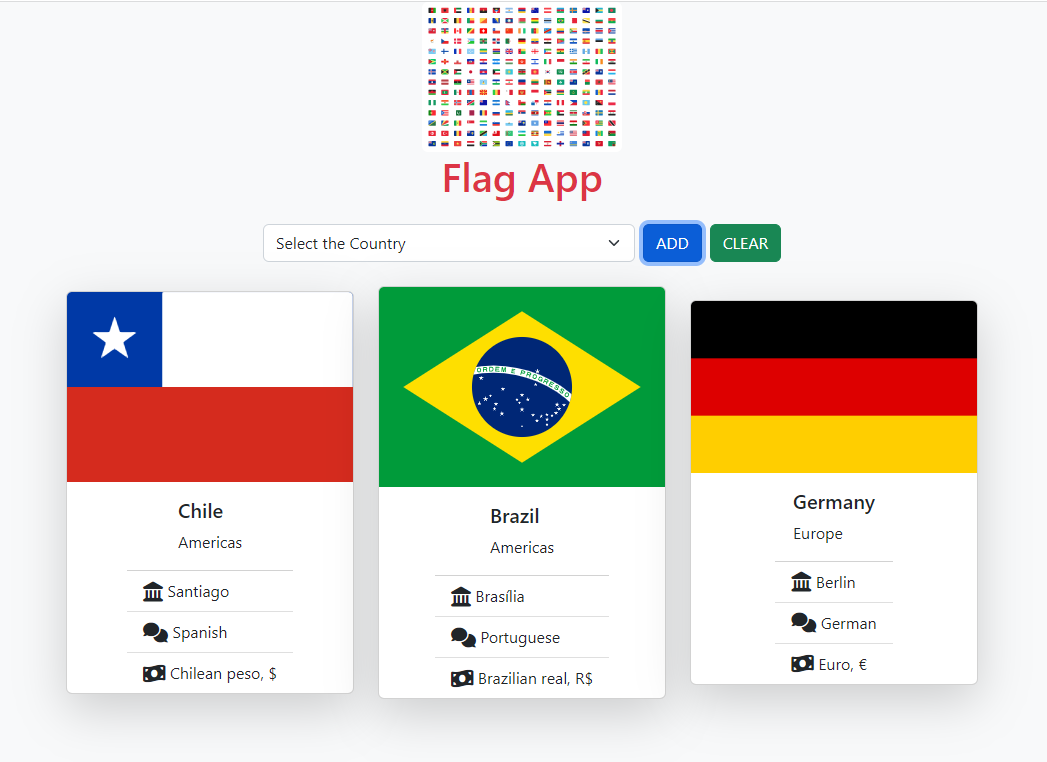
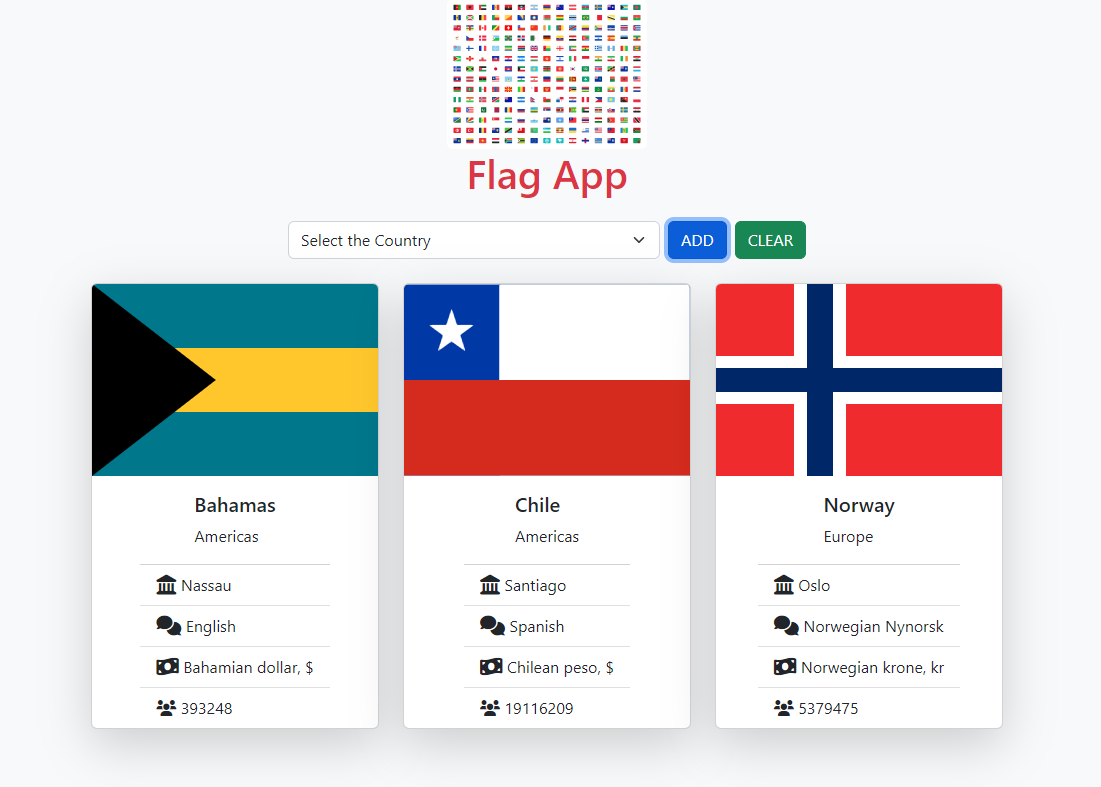
fixed

diff --git a/css/style.css b/css/style.css
@@ -3,5 +3,7 @@
   height: auto;
 }
 .card-img-top{
-  height: 20vh;
+  height: 21vh;
+  width: 100%;
+
 }
